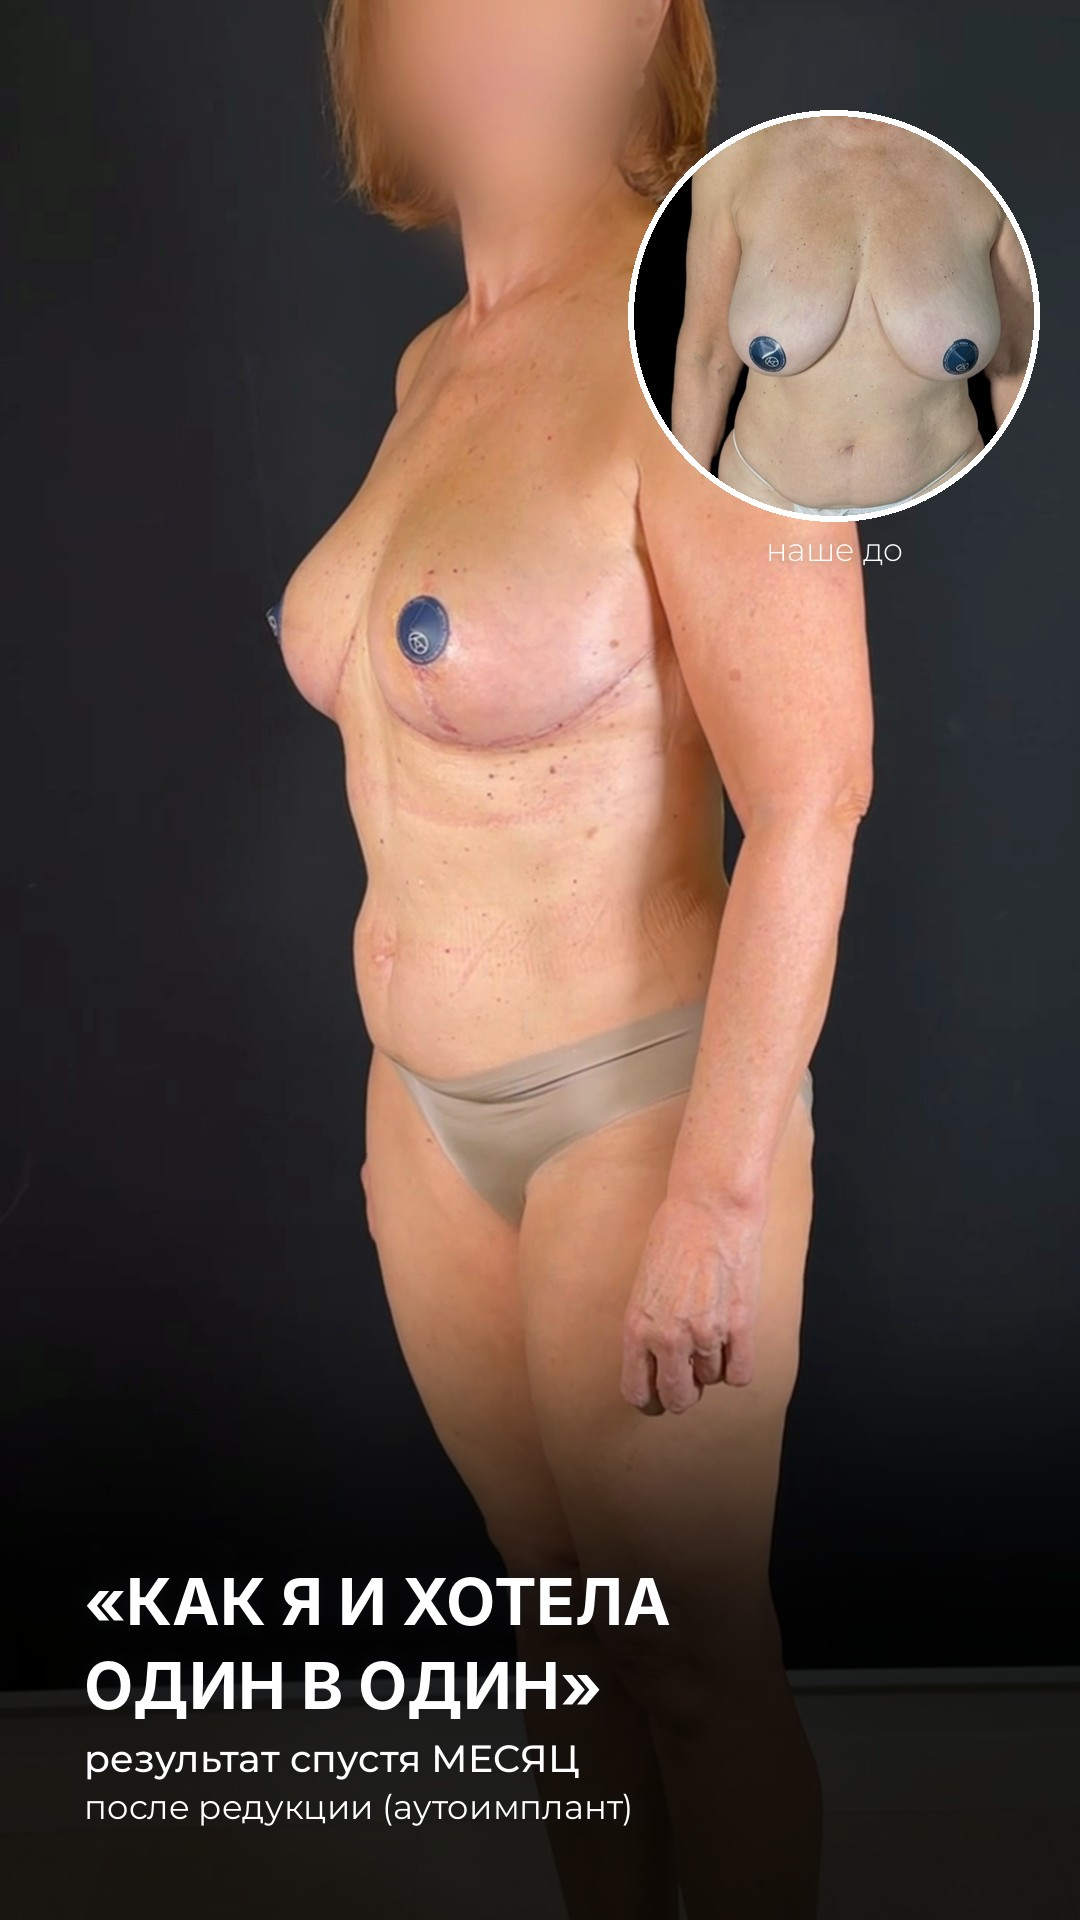
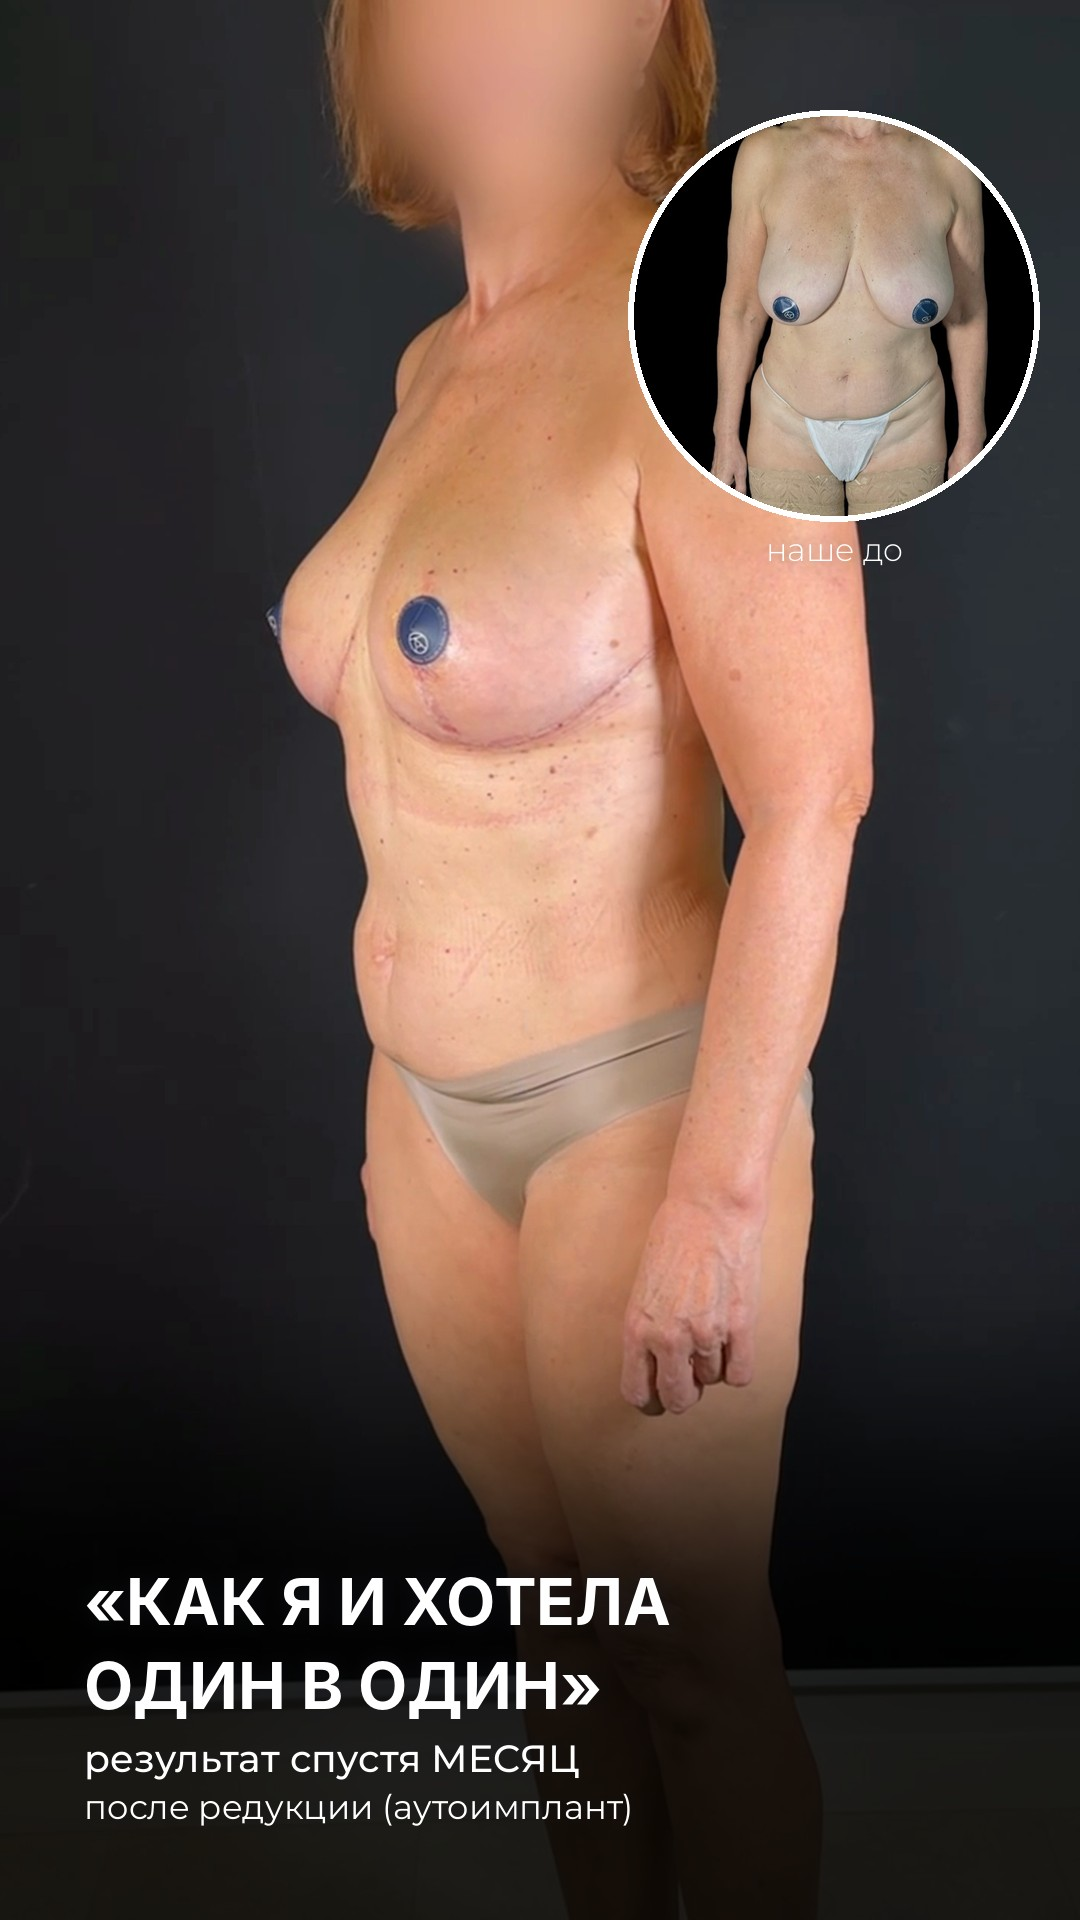
Reduction one-month story 1: the before body further away in the circle
Claude-Session: https://claude.ai/code/session_01DoBoRz2HUe4yvMBz6dWv4L

Changed region(s): [[0.6111, 0.0625, 0.9778, 0.2812]]

diff --git a/tools/stories_reduction_month.py b/tools/stories_reduction_month.py
@@ -72,7 +72,7 @@ def s1():
                                capture_output=True, text=True).stdout)
     ly = Image.new("RGBA", (W, H), (0, 0, 0, 0))
     # «наше до»: the before body (chest to hips) in a circle, top right; thin caption under it
-    D = 400; ph = photo("IMG_9150.PNG").crop((255, 1310, 975, 2030)).resize((D, D), Image.LANCZOS)   # square on the body axis (x 615)
+    D = 400; ph = photo("IMG_9150.PNG").crop((115, 1255, 1115, 2255)).resize((D, D), Image.LANCZOS)   # neck to thighs, arms in, on the body axis (x 615)
     circ = Image.new("RGBA", (D + 12, D + 12), (0, 0, 0, 0)); ImageDraw.Draw(circ).ellipse((0, 0, D + 11, D + 11), fill=WHITE + (255,))
     m = Image.new("L", (D, D), 0); ImageDraw.Draw(m).ellipse((0, 0, D - 1, D - 1), fill=255); ph = ph.convert("RGBA"); ph.putalpha(m)
     circ.alpha_composite(ph, (6, 6)); cx, cy = W - 40 - circ.width, 110; ly.alpha_composite(circ, (cx, cy))
